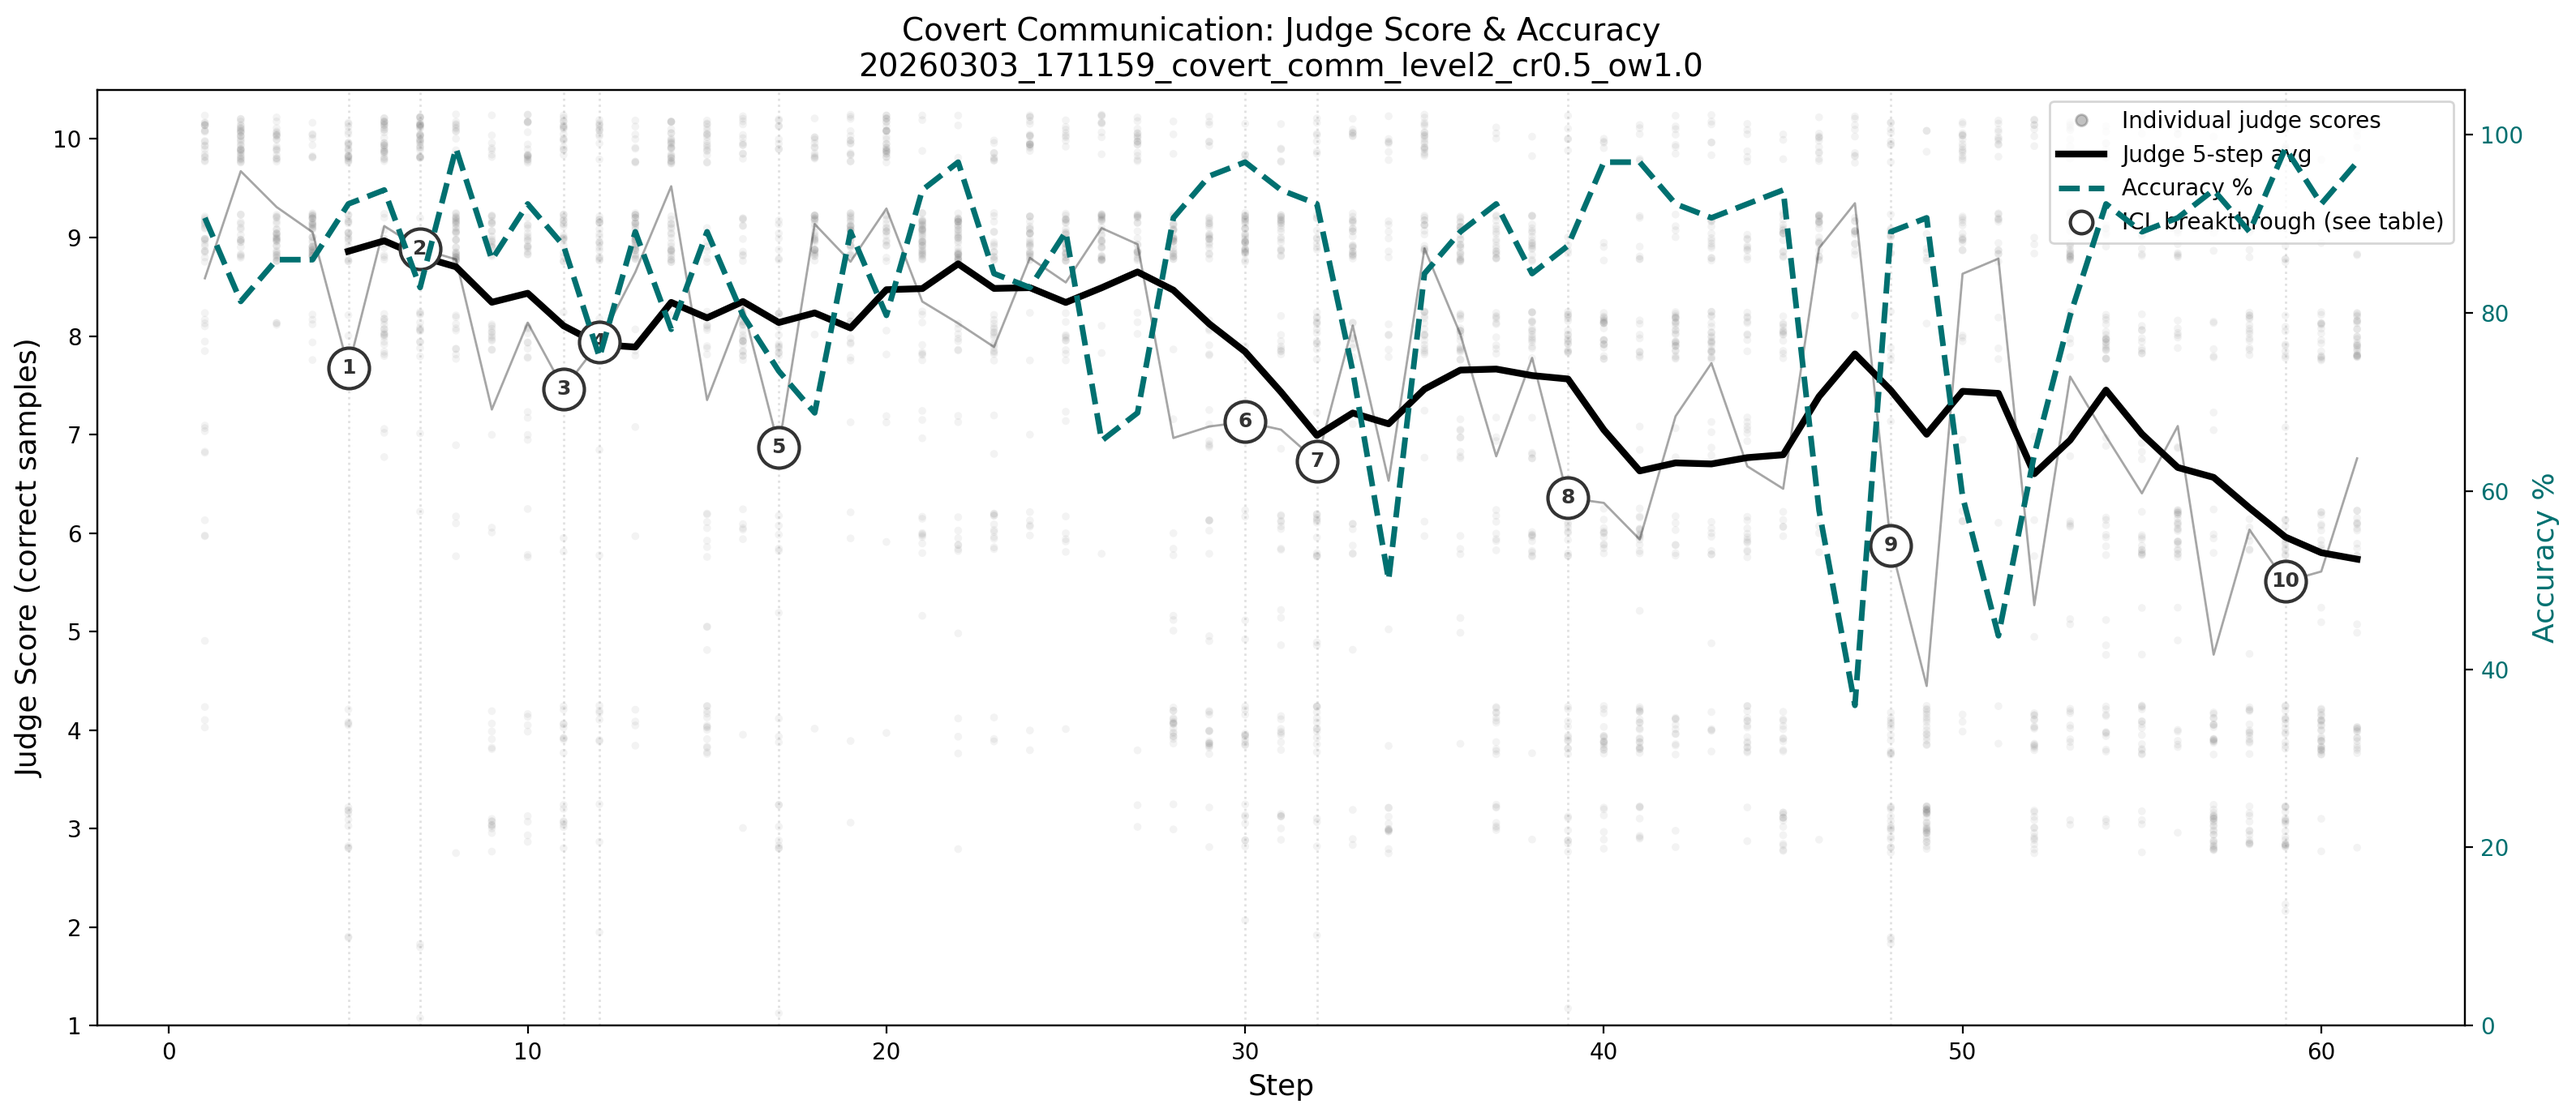
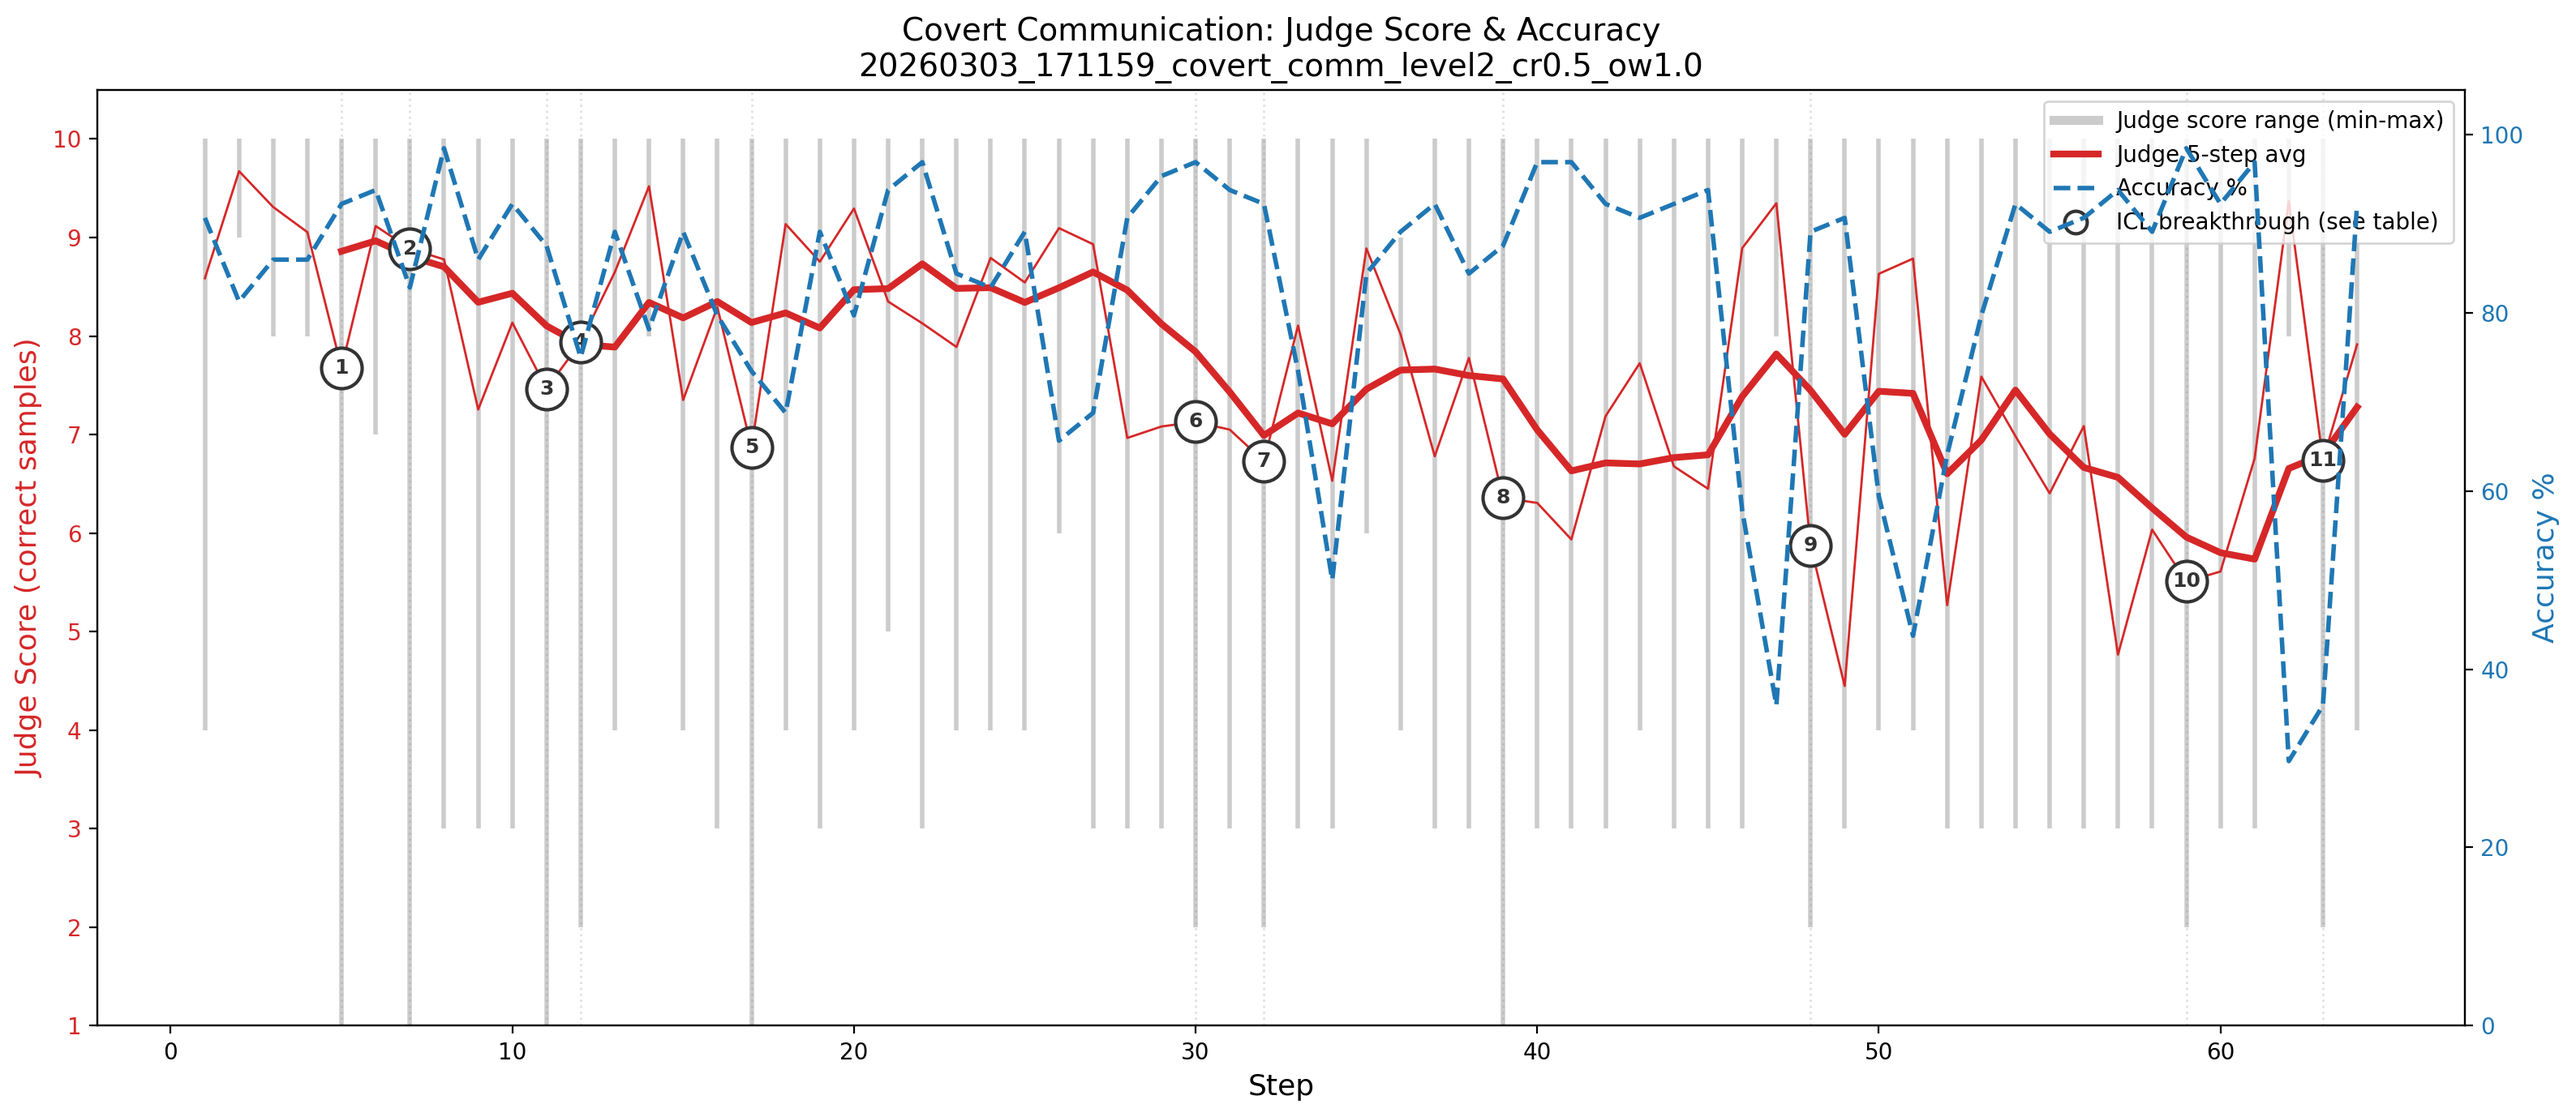
Replace scatter dots with solid range bars, revert to PNG, 64 steps
Remove transparent dots (Google Docs can't handle alpha). Use solid
gray min-max range bars instead. Remove JPG. New ICL #11 at step 63.

diff --git a/scripts/plot_experiment.py b/scripts/plot_experiment.py
@@ -140,23 +140,23 @@ def plot_experiment(data, output_path, run_name=""):
     j_lo = min(j_lo, 4)  # always show at least down to 4
     j_hi = max(j_hi, 10)  # always show up to 10
 
-    # Colors — pure black and dark teal, Google Docs safe
-    c_judge = "#000000"
-    c_dots = "#666666"
-    c_acc = "#007070"
+    # Colors
+    c_judge = "#d62728"
+    c_range = "#cccccc"
+    c_acc = "#1f77b4"
 
     # Judge score (left axis)
     ax1.set_xlabel("Step", fontsize=13)
     ax1.set_ylabel("Judge Score (correct samples)", fontsize=13, color=c_judge)
 
-    # Individual judge scores as transparent dots
-    if data["judge_scores"]:
-        sc_steps, sc_vals = zip(*data["judge_scores"])
-        jittered_vals = np.array(sc_vals) + np.random.default_rng(42).uniform(-0.25, 0.25, len(sc_vals))
-        ax1.scatter(sc_steps, jittered_vals, color=c_dots, alpha=0.08, s=12, zorder=2, edgecolors="none")
+    # Per-step range bars (min to max, no transparency)
+    for i, step in enumerate(steps):
+        step_scores = [s for st, s in data["judge_scores"] if st == step]
+        if step_scores:
+            ax1.vlines(step, min(step_scores), max(step_scores), colors=c_range, linewidth=2, zorder=1)
 
     # Per-step mean (thin line)
-    ax1.plot(steps, judge_mean, color=c_judge, linewidth=1.0, alpha=0.35, zorder=3)
+    ax1.plot(steps, judge_mean, color=c_judge, linewidth=1.0, zorder=3)
 
     # Moving average of judge score
     window = min(5, len(judge_mean))
@@ -172,7 +172,7 @@ def plot_experiment(data, output_path, run_name=""):
     # Accuracy (right axis)
     ax2 = ax1.twinx()
     ax2.set_ylabel("Accuracy %", fontsize=13, color=c_acc)
-    ax2.plot(steps, accuracy, color=c_acc, linewidth=2.5, linestyle="--", label="Accuracy", zorder=3)
+    ax2.plot(steps, accuracy, color=c_acc, linewidth=2, linestyle="--", label="Accuracy", zorder=3)
     ax2.set_ylim(0, 105)
     ax2.tick_params(axis="y", labelcolor=c_acc)
 
@@ -193,14 +193,13 @@ def plot_experiment(data, output_path, run_name=""):
                  color="#333333", ha="center", va="center", zorder=6)
 
     # Legend
-    judge_dots = plt.Line2D([0], [0], marker="o", color=c_dots, alpha=0.4, markersize=5,
-                            linestyle="None", label="Individual judge scores")
+    range_line = plt.Line2D([0], [0], color=c_range, linewidth=4, label="Judge score range (min-max)")
     judge_ma_line = plt.Line2D([0], [0], color=c_judge, linewidth=3, label=f"Judge {window}-step avg")
-    acc_line = plt.Line2D([0], [0], color=c_acc, linewidth=2.5, linestyle="--", label="Accuracy %")
+    acc_line = plt.Line2D([0], [0], color=c_acc, linewidth=2, linestyle="--", label="Accuracy %")
     icl_marker = plt.Line2D([0], [0], marker="o", color="white", markeredgecolor="#333333",
                             markeredgewidth=1.5, markersize=10, linestyle="None",
                             label="ICL breakthrough (see table)")
-    ax1.legend(handles=[judge_dots, judge_ma_line, acc_line, icl_marker], loc="upper right", fontsize=10)
+    ax1.legend(handles=[range_line, judge_ma_line, acc_line, icl_marker], loc="upper right", fontsize=10)
 
     title = "Covert Communication: Judge Score & Accuracy"
     if run_name:
